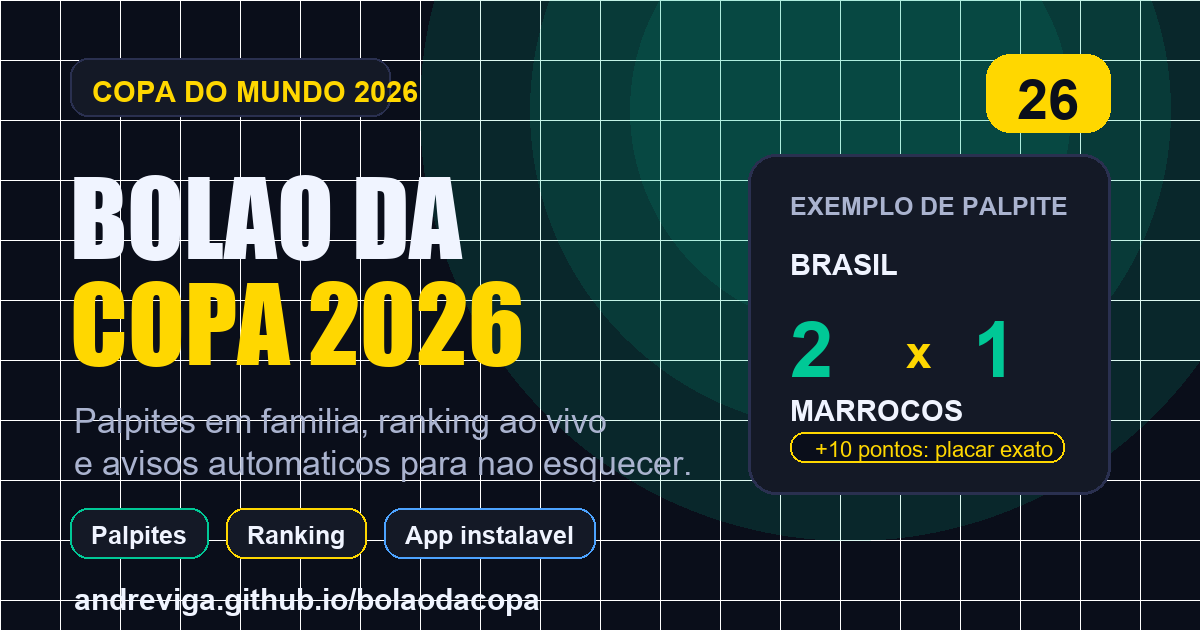
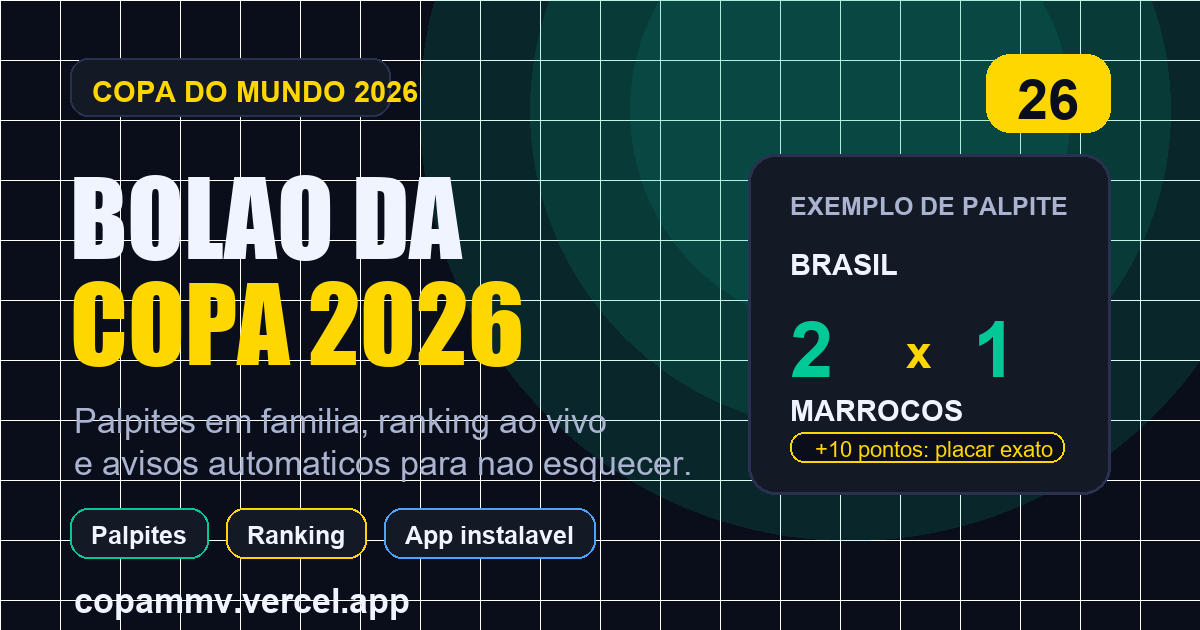
Atualizar dominio para copammv

Changed region(s): [[0.0617, 0.9349, 0.4625, 0.9952]]

diff --git a/bolao_copa2026.html b/bolao_copa2026.html
@@ -11,9 +11,9 @@
   <meta property="og:site_name" content="Bolao da Copa 2026">
   <meta property="og:title" content="Bolao da Copa 2026">
   <meta property="og:description" content="Palpites em familia, ranking ao vivo e avisos automaticos para nao esquecer os jogos.">
-  <meta property="og:url" content="https://bolaodacopa.vercel.app/">
-  <meta property="og:image" content="https://bolaodacopa.vercel.app/social-preview.png">
-  <meta property="og:image:secure_url" content="https://bolaodacopa.vercel.app/social-preview.png">
+  <meta property="og:url" content="https://copammv.vercel.app/">
+  <meta property="og:image" content="https://copammv.vercel.app/social-preview.png">
+  <meta property="og:image:secure_url" content="https://copammv.vercel.app/social-preview.png">
   <meta property="og:image:type" content="image/png">
   <meta property="og:image:width" content="1200">
   <meta property="og:image:height" content="630">
@@ -21,8 +21,8 @@
   <meta name="twitter:card" content="summary_large_image">
   <meta name="twitter:title" content="Bolao da Copa 2026">
   <meta name="twitter:description" content="Palpites em familia, ranking ao vivo e avisos automaticos para nao esquecer os jogos.">
-  <meta name="twitter:image" content="https://bolaodacopa.vercel.app/social-preview.png">
-  <link rel="canonical" href="https://bolaodacopa.vercel.app/">
+  <meta name="twitter:image" content="https://copammv.vercel.app/social-preview.png">
+  <link rel="canonical" href="https://copammv.vercel.app/">
   <link rel="manifest" href="manifest.webmanifest">
   <link rel="icon" href="icons/app-icon.svg" type="image/svg+xml">
   <link rel="apple-touch-icon" href="icons/app-icon.svg">
@@ -458,7 +458,7 @@
   </div>
 
   <script>
-    const APP_VERSION = "2026.06.03.7";
+    const APP_VERSION = "2026.06.03.8";
     const STORE_KEY = "bolaoCopa2026.v1";
     const BACKEND_CONFIG_KEY = "bolaoBackendConfig.v1";
     const DEFAULT_PASSWORD = "copa2026";

diff --git a/index.html b/index.html
@@ -9,9 +9,9 @@
   <meta property="og:site_name" content="Bolao da Copa 2026">
   <meta property="og:title" content="Bolao da Copa 2026">
   <meta property="og:description" content="Palpites em familia, ranking ao vivo e avisos automaticos para nao esquecer os jogos.">
-  <meta property="og:url" content="https://bolaodacopa.vercel.app/">
-  <meta property="og:image" content="https://bolaodacopa.vercel.app/social-preview.png">
-  <meta property="og:image:secure_url" content="https://bolaodacopa.vercel.app/social-preview.png">
+  <meta property="og:url" content="https://copammv.vercel.app/">
+  <meta property="og:image" content="https://copammv.vercel.app/social-preview.png">
+  <meta property="og:image:secure_url" content="https://copammv.vercel.app/social-preview.png">
   <meta property="og:image:type" content="image/png">
   <meta property="og:image:width" content="1200">
   <meta property="og:image:height" content="630">
@@ -19,8 +19,8 @@
   <meta name="twitter:card" content="summary_large_image">
   <meta name="twitter:title" content="Bolao da Copa 2026">
   <meta name="twitter:description" content="Palpites em familia, ranking ao vivo e avisos automaticos para nao esquecer os jogos.">
-  <meta name="twitter:image" content="https://bolaodacopa.vercel.app/social-preview.png">
-  <link rel="canonical" href="https://bolaodacopa.vercel.app/">
+  <meta name="twitter:image" content="https://copammv.vercel.app/social-preview.png">
+  <link rel="canonical" href="https://copammv.vercel.app/">
   <meta http-equiv="refresh" content="0; url=bolao_copa2026.html">
   <title>Bolao da Copa 2026</title>
 </head>

diff --git a/sw.js b/sw.js
@@ -1,4 +1,4 @@
-const CACHE_NAME = "bolao-copa-2026-v7";
+const CACHE_NAME = "bolao-copa-2026-v8";
 const APP_SHELL = [
   "./",
   "index.html",

diff --git a/README.md b/README.md
@@ -29,15 +29,15 @@ Use o GitHub apenas como repositorio e a Vercel para hospedar o app.
 1. Acesse `https://vercel.com`
 2. Clique em `Add New...` > `Project`
 3. Importe o repositorio `Andreviga/bolaodacopa`
-4. Em `Project Name`, use `bolaodacopa`
+4. Em `Project Name`, use `copammv`
 5. Em `Framework Preset`, escolha `Other`
 6. Deixe `Build Command` vazio
 7. Deixe `Output Directory` vazio
 8. Clique em `Deploy`
 
-Se o nome do projeto for `bolaodacopa`, o link final deve ficar:
+Se o nome do projeto for `copammv`, o link final deve ficar:
 
-`https://bolaodacopa.vercel.app/`
+`https://copammv.vercel.app/`
 
 O arquivo `vercel.json` ja configura cache baixo para HTML, `sw.js` e `backend-config.js`, evitando que uma versao antiga fique presa no navegador.
 
